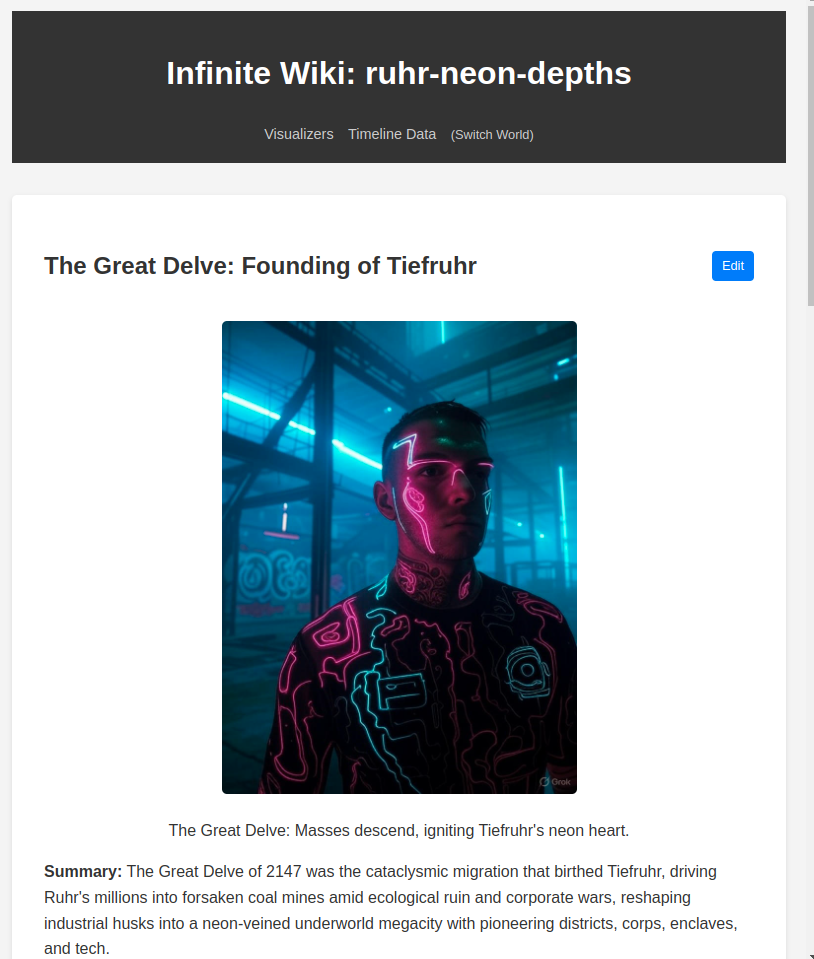
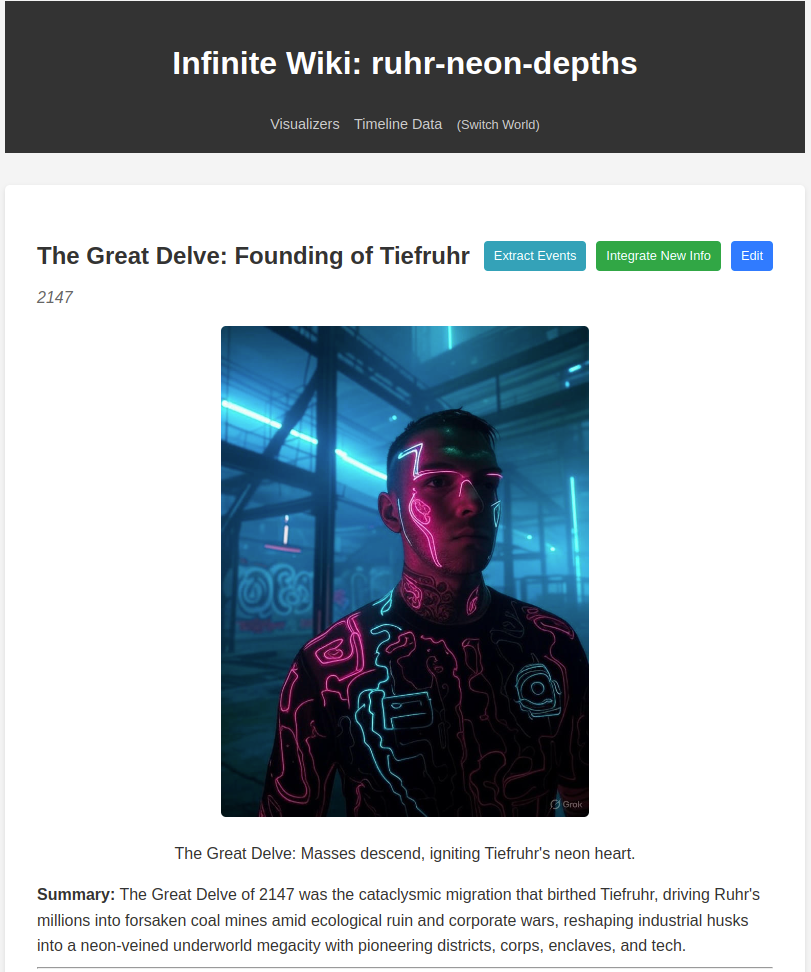
feat: Introduce 'Integrate New Information', 'Timeline Event Extraction', and 'Interactive Red Links' features, and refine timeline event year numeric description.

diff --git a/app/core/generator.py b/app/core/generator.py
@@ -458,7 +458,9 @@ class GeneratorService:
         """
 
         class TimelineEvent(BaseModel):
-            year_numeric: float = Field(description="Numeric year for sorting.")
+            year_numeric: float = Field(
+                description="Numeric year for sorting, use floating points for events during the year (e.g. 1929.5 for the middle of 1929)."
+            )
             display_date: str = Field(description="Display string for the date.")
             description: str = Field(description="Brief description of the event.")
 

diff --git a/README.md b/README.md
@@ -67,6 +67,22 @@ Explore your world with interactive Knowledge Graph and Timeline views.
 ![Selected Text Generation](assets/selected_text_generation.png)
 </details>
 
+- **Integrate New Information**: Update existing articles with new context from the knowledge base.
+  - Click the "Integrate New Info" button on any article to automatically pull in relevant information from newer articles and graph connections.
+  - The AI will rewrite the article to seamlessly incorporate new facts and relationships.
+  - A summary of changes is displayed after integration.
+
+- **Timeline Event Extraction**: Extract historical events from article text and add them to the timeline.
+  - Click the "Extract Events" button to analyze an article for dates and significant events.
+  - Extracted events are added to the graph and appear in the timeline visualization.
+  - Events are linked to their source article via a `mentioned_in` relationship.
+  - this is not run automatically on article (re-)generation to avoid generation costs, you need to trigger it manually.
+
+- **Interactive Red Links**: Click on non-existent article links to create them with custom instructions.
+  - Links to events/people/locations/entities that exist in the graph but do not yet have an article in the database appear in **red**.
+  - Clicking a red link opens a prompt where you can provide optional instructions (e.g., "Make this character a villain").
+  - The article is generated immediately with your guidance applied.
+  - if you don't provide instructions, the article will be generated with default instructions.
 
 - **Deduplication**: Automatically detects and redirects duplicate entity requests.
 
